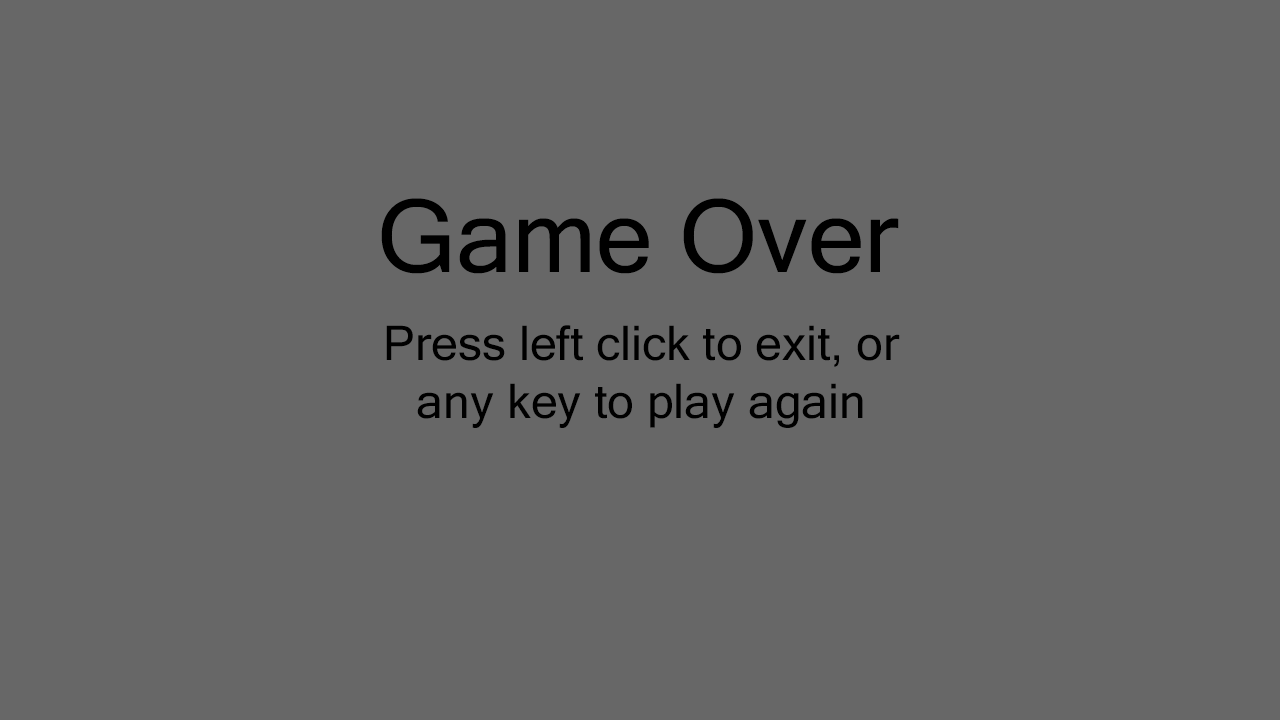
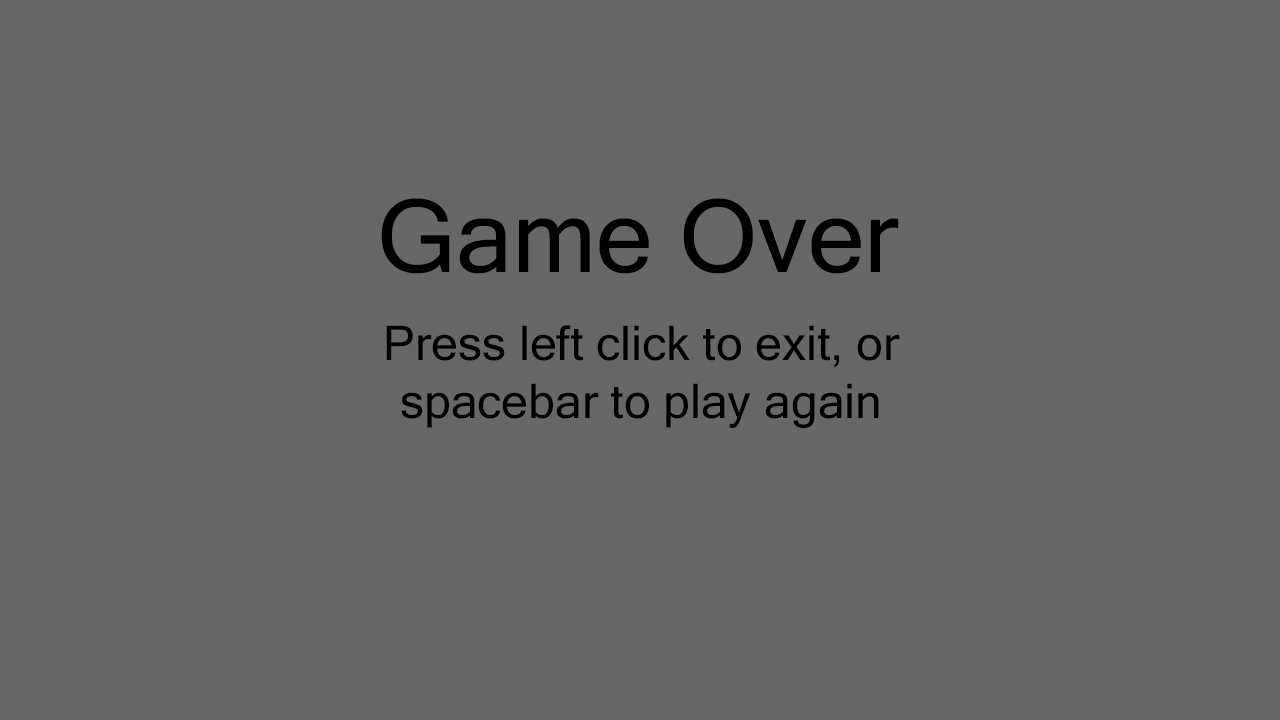
Changed replay condition and fixed high score mistake

Changed region(s): [[0.3125, 0.5194, 0.6875, 0.6111]]

diff --git a/Snake/snake.py b/Snake/snake.py
@@ -97,7 +97,6 @@ class snake_game:
         for x in range(STARTING_SIZE):
             self.snake.append(Point((self.head.x-x*GRIDSQUARE), self.head.y))
 
-
         # Set score and food defaults
         self.score = 0
         self.food = None
@@ -143,9 +142,7 @@ class snake_game:
             self.direction = Direction.DOWN
         
         self.rotate_snake(self.direction)
-
-
-                
+  
         # Move snake in the direction of key pressed
         self.move(self.direction)
         self.snake.insert(0, self.head)
@@ -172,7 +169,7 @@ class snake_game:
         # Game over and score
         return game_over, self.score
 
-        
+
     def update_ui(self):
         
         # Set background to grass colour
@@ -196,8 +193,7 @@ class snake_game:
                         snake_segment = snake_tail_down
                     else:
                         snake_segment = snake_tail_up
-
-                
+       
             # If the next segment in the snake is on the same y level and is not the tail, sets the segment to the horizontal segment
             elif current_segment.y == next_segment.y:
                 snake_segment = snake_segment_horizontal
@@ -245,7 +241,6 @@ class snake_game:
             snake_y_pos += GRIDSQUARE
 
         self.head = Point(snake_x_pos, snake_y_pos)
-        
 
 
     def collided(self):
@@ -295,14 +290,13 @@ class snake_game:
             # Was moving left                     
             case Direction.LEFT:
                 snake_head = snake_head_left
-        
+
 
     def start_game(self):
         global game_over
         game = snake_game()
         while game_over == False:
             game_over, score = game.play_step(game_over)
-
                 
             for event in pygame.event.get():    
                 if event.type == pygame.QUIT:
@@ -313,29 +307,33 @@ class snake_game:
                     pygame.quit()
                     quit()
 
+        
         while True:
-            
             self.display.blit(game_over_screen, (0, 0))
             pygame.display.flip()
             
+            # Wait 1 second after the game is over before accepting inputs in order to combat accidental keypresses
             for event in pygame.event.get():    
                 if event.type == pygame.QUIT:
                     pygame.quit()
                     quit()
 
                 if event.type == pygame.KEYDOWN:
-                    game_over = False 
-                    self.start_game()
+                    if event.key == pygame.K_SPACE:
+                        self.set_high_score(score)
+                        game_over = False 
+                        self.start_game()
 
                 if event.type == pygame.MOUSEBUTTONDOWN:
+                    self.set_high_score(score)
                     pygame.quit()
                     quit()
+                    
 
             clock = pygame.time.Clock()
             clock.tick(60)
 
-            
-
+    def set_high_score(self, score):
         # Open high score file and change high score if current game beat it
         with open(HIGHSCORE_FILE_PATH, "r") as high_score_read:
             high_score = high_score_read.readline()
@@ -347,6 +345,7 @@ class snake_game:
         high_score_read.close()
 
         print('Final Score', score, 'High Score', high_score)
+        
 
 # Start the game    
 snake_game_instance = snake_game()
